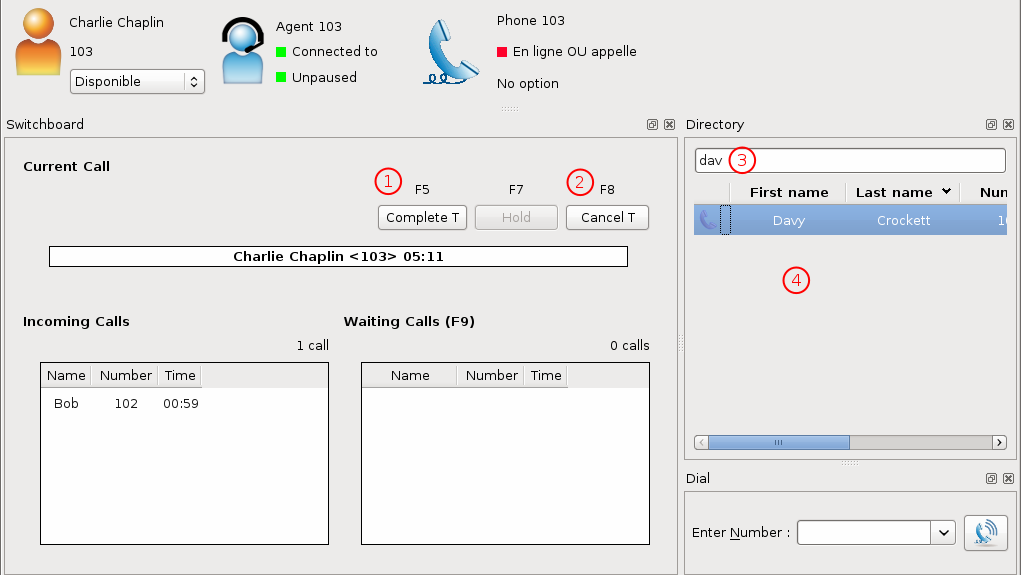
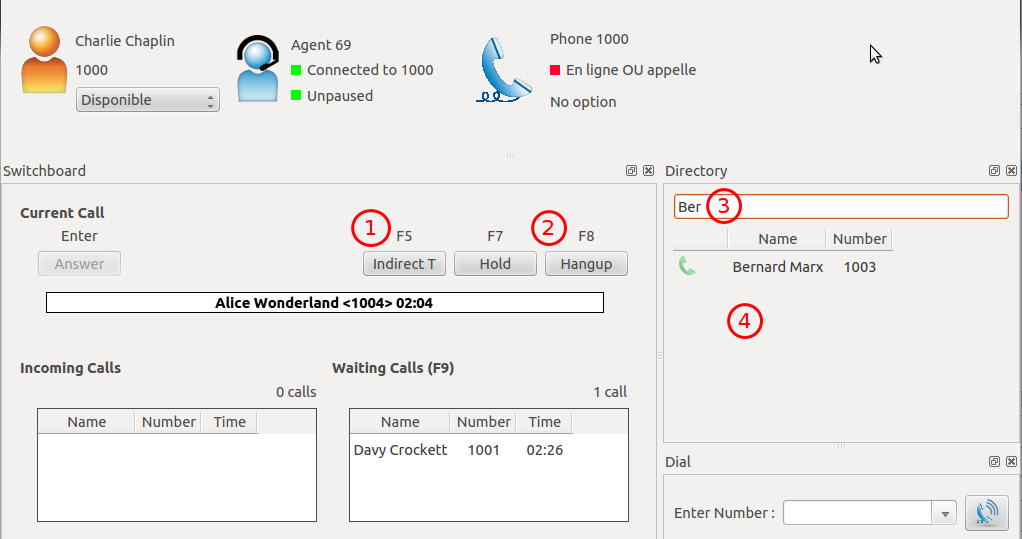
Add answer button

diff --git a/source/administration/switchboard/switchboard.rst b/source/administration/switchboard/switchboard.rst
@@ -210,13 +210,14 @@ When the user connects with his XiVO Client, he gets the Switchboard profile.
 .. figure:: images/xivoclient-answering.png
 
 1. *Current Call* frame
-2. *Attended transfer* button
-3. *Hold* button
-4. *Hangup* button
-5. *Incoming Calls* list
-6. *Waiting Calls* list
-7. Directory Xlet
-8. Dial Xlet
+2. *Answer* button
+3. *Attended transfer* button
+4. *Hold* button
+5. *Hangup* button
+6. *Incoming Calls* list
+7. *Waiting Calls* list
+8. Directory Xlet
+9. Dial Xlet
 
 .. note:: If you don't see the Switchboard Xlet, right-click on the grey
           bar at the right of the *Help* menu and check *Switchboard*:
@@ -235,7 +236,7 @@ Answering an incoming call
 
 When the switchboard receives a call, the new call is added to the *Incoming
 Calls* list on the left. The user can answer this call by clicking on the first
-call in the list or by pressing the *Enter* key **only when his phone is
+call in the list, by clicking the *Answer* button or by pressing the *Enter* key **only when his phone is
 ringing**.
 
 .. note:: The XiVO Client must be the active window for the keyboard shortcuts
@@ -258,7 +259,7 @@ Once the call has been answered and placed in the current call frame, the operat
 Transferring a call
 ^^^^^^^^^^^^^^^^^^^
 
-In this example, we are transferring *Charlie Chaplin* to *Davy Crockett* with
+In this example, we are transferring *Alice Wonderland* to *Bernard Marx* with
 an attended transfer. *Davy Crockett* is still ringing.
 
 .. figure:: images/xivoclient-transferring.png
